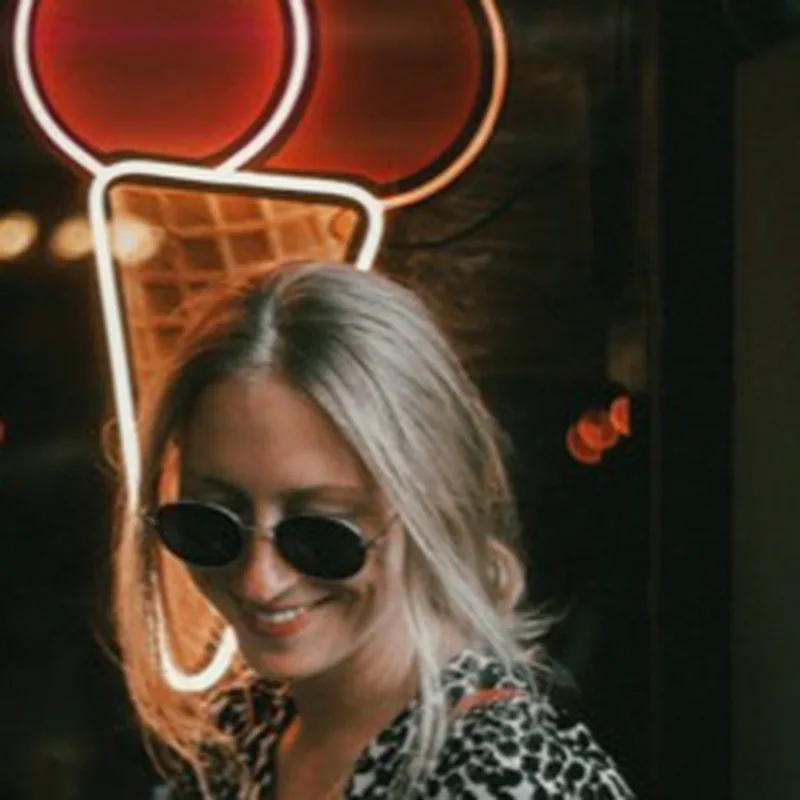
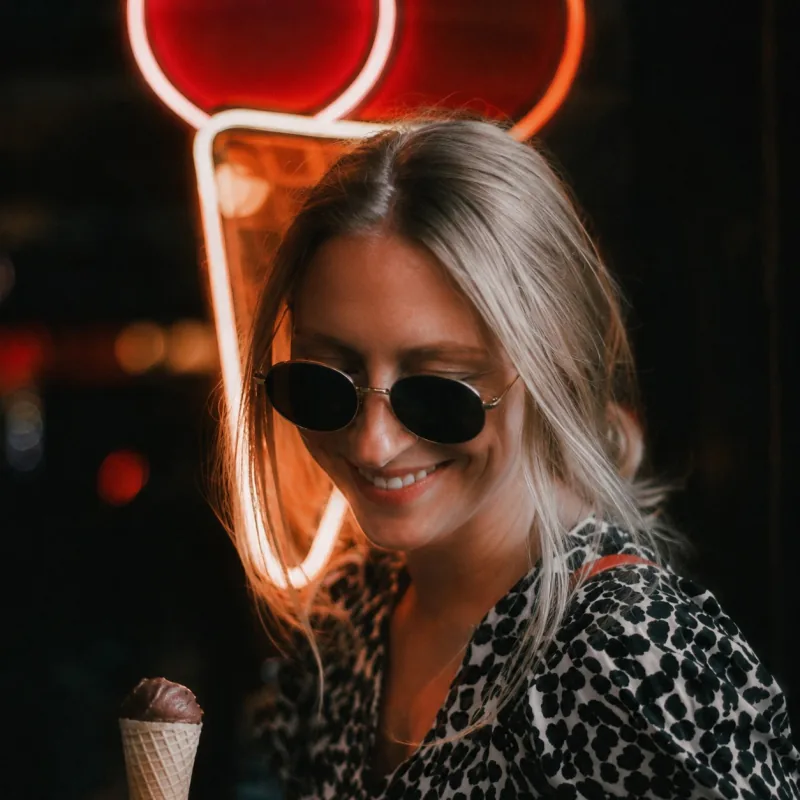
feat: remplacer les portraits auteur sans retouche

diff --git a/DESIGN.md b/DESIGN.md
@@ -269,17 +269,19 @@ et les mêmes cibles de 44 px que les autres pages de confiance.
 
 Les photographies réelles fournies pour Nicolas, Florian et Magali remplacent
 les monogrammes après leur chaîne de droits et leur validation humaine. Elles
-restent carrées dans les actifs, utilisent un recadrage central compatible avec
-les profils et les petites signatures, puis partagent une correction mate et un
-grain discret. Aucun filtre CSS ne dépend du navigateur et aucune génération ne
-réinvente un trait du visage.
+restent carrées dans les actifs et conservent le cadrage et le rendu visuel des
+fichiers validés par le propriétaire éditorial. Les dérivés publics ne reçoivent
+qu'un redimensionnement, une compression WebP et un retrait des métadonnées.
+Aucun filtre CSS ne dépend du navigateur et aucune génération ne réinvente un
+trait du visage.
 
-Le profil affiche le portrait dans un cadre éditorial non circulaire. L'annuaire
-emploie sa version légère. Dans chaque article, le lien d'auteur place une bulle
-circulaire de 48 px avant le nom : elle garde une dimension intrinsèque, un
-contour orange et un texte alternatif vide puisque le nom visible porte déjà
-l'identité. Les profils conservent une alternative « Portrait de [prénom] »,
-des dimensions explicites et un rendu responsive sans décalage de mise en page.
+Le profil affiche le portrait dans un cadre éditorial carré et non circulaire,
+sans couper les bords du fichier validé. L'annuaire emploie sa version légère.
+Dans chaque article, le lien d'auteur place une bulle circulaire de 48 px avant
+le nom : elle garde une dimension intrinsèque, un contour orange et un texte
+alternatif vide puisque le nom visible porte déjà l'identité. Les profils
+conservent une alternative « Portrait de [prénom] », des dimensions explicites
+et un rendu responsive sans décalage de mise en page.
 
 ### Actions et liens marchands
 

diff --git a/CHANGELOG.md b/CHANGELOG.md
@@ -6,6 +6,22 @@ importantes.
 
 ## Non publié
 
+### Portraits auteur remplacés sans retouche
+
+- Nicolas, Florian et Magali utilisent les trois nouvelles photographies
+  fournies dans cet ordre par le propriétaire éditorial. Aucun filtre, grain,
+  recadrage, correction ou traitement génératif n'est appliqué : seule
+  l'optimisation de diffusion modifie les fichiers sources.
+- Les six dérivés publics conservent leurs URL et leurs dimensions de 192 et
+  800 px. Le redimensionnement, la compression WebP et le retrait des
+  métadonnées ramènent leur poids cumulé de 193 974 à 145 488 octets, soit une
+  baisse de 25 % sans changer les URL ni les attributions d'articles.
+- Les pages profil adoptent un cadre carré afin de montrer ces fichiers carrés
+  sans le recadrage 4:3 auparavant imposé par la mise en page. L'annuaire et les
+  bulles de 48 px conservent leur comportement.
+- Le registre média conserve uniquement les empreintes des trois sources
+  privées et des six dérivés publics ; les JPEG fournis restent hors Git.
+
 ## 2026-08-27 - Images de tête dégagées
 
 - Les légendes des dix-neuf images de tête et de la une ne recouvrent plus les

diff --git a/EDITORIAL-PROTOCOL.md b/EDITORIAL-PROTOCOL.md
@@ -272,6 +272,12 @@ Les métadonnées de prise de vue sont retirées du dérivé public. Une amélio
 qui invente des détails du visage, des yeux, des vêtements ou du décor reste
 interdite.
 
+Cette liste fixe un maximum, pas un traitement obligatoire. Une instruction
+plus restrictive du propriétaire éditorial prévaut : un portrait demandé sans
+retouche conserve alors son cadrage, ses couleurs et sa texture, et ne reçoit
+que le redimensionnement, la compression et le retrait des métadonnées requis
+pour sa publication.
+
 Mention publique minimale, placée sous le visuel sans le recouvrir :
 
 > Illustration éditoriale d'après une photographie officielle [fabricant].

diff --git a/ROADMAP.md b/ROADMAP.md
@@ -183,6 +183,9 @@ livré :
 - [x] Remplacer les monogrammes par les trois portraits fournis, harmonisés
   localement, puis afficher la bonne bulle d'auteur sur chacun des dix-neuf
   dossiers sans changer leur attribution.
+- [x] Remplacer ces premiers dérivés par les trois nouvelles photographies
+  carrées validées, sans filtre, grain, recadrage ni correction, puis les servir
+  aux mêmes URL en WebP 192 et 800 px allégés et sans métadonnées.
 - [x] Sortir les crédits des images de tête, les réduire à leur provenance
   utile et placer une seule fois la réserve sur la valeur de preuve dans le
   second niveau de lecture des dix-neuf dossiers.
